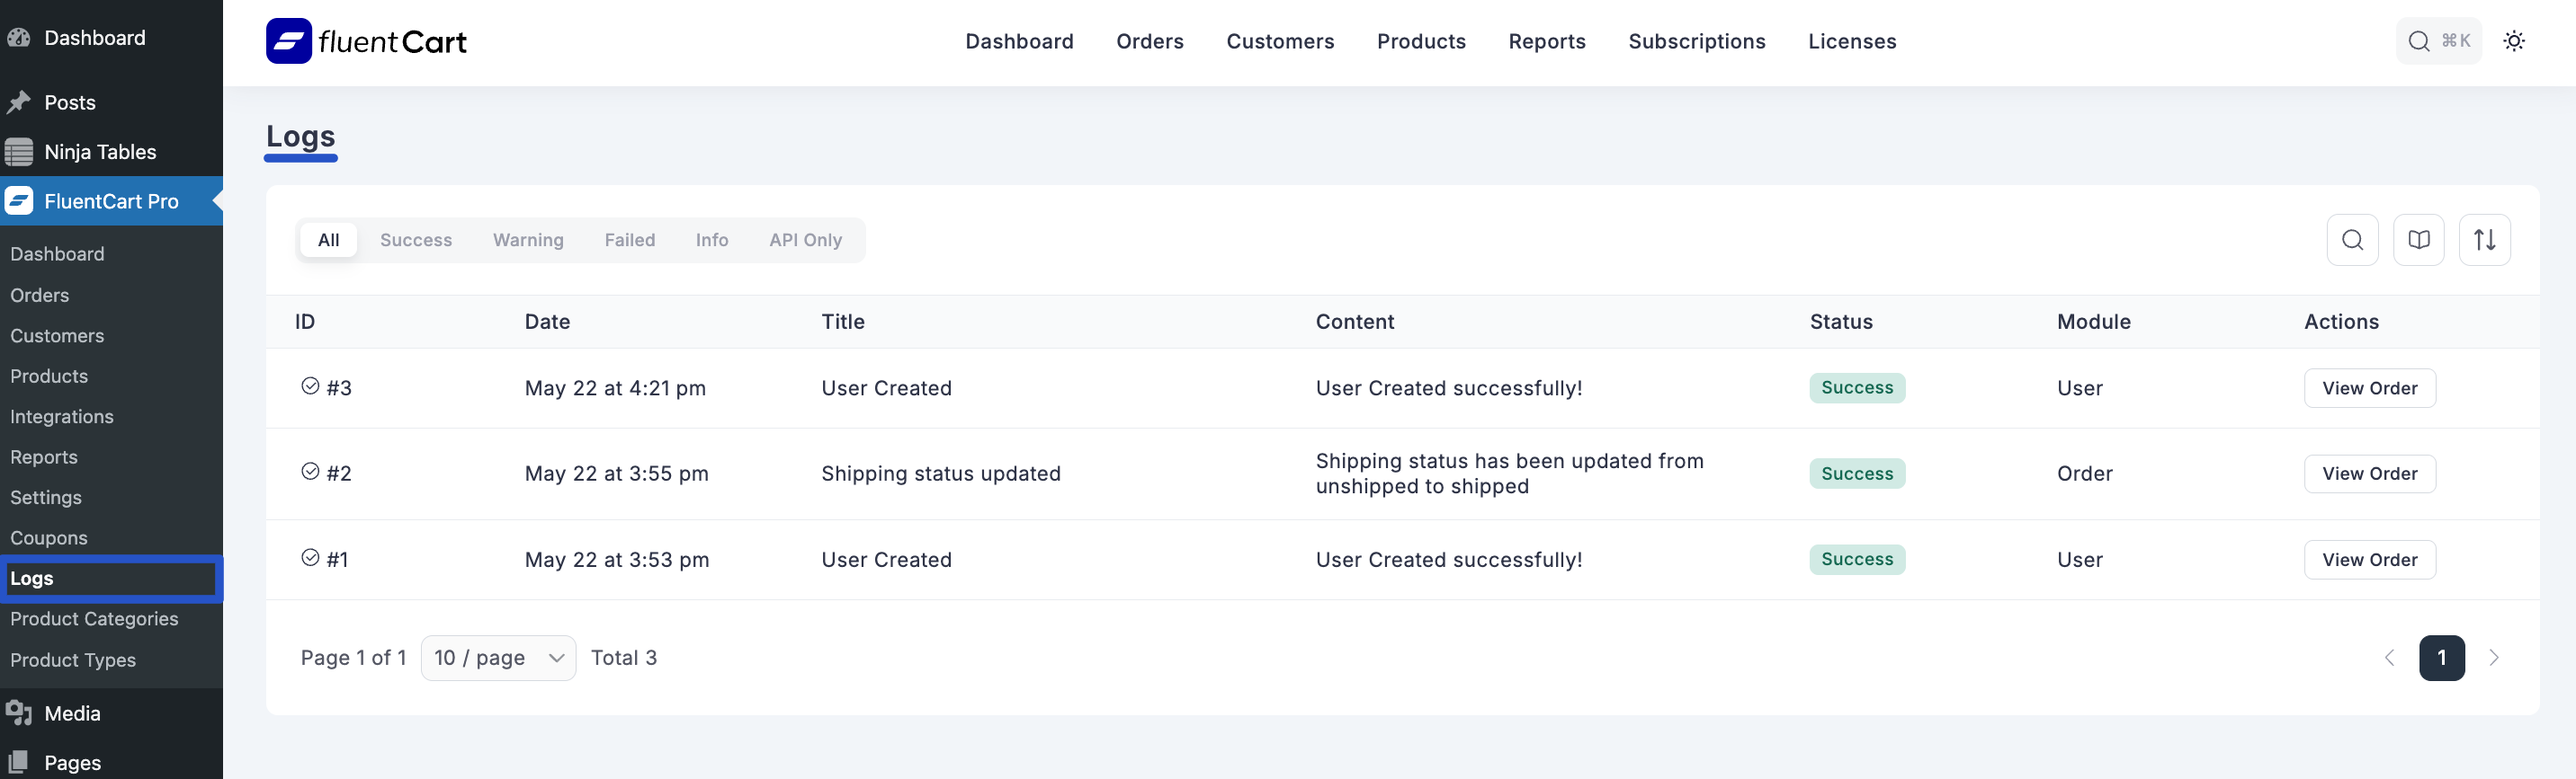
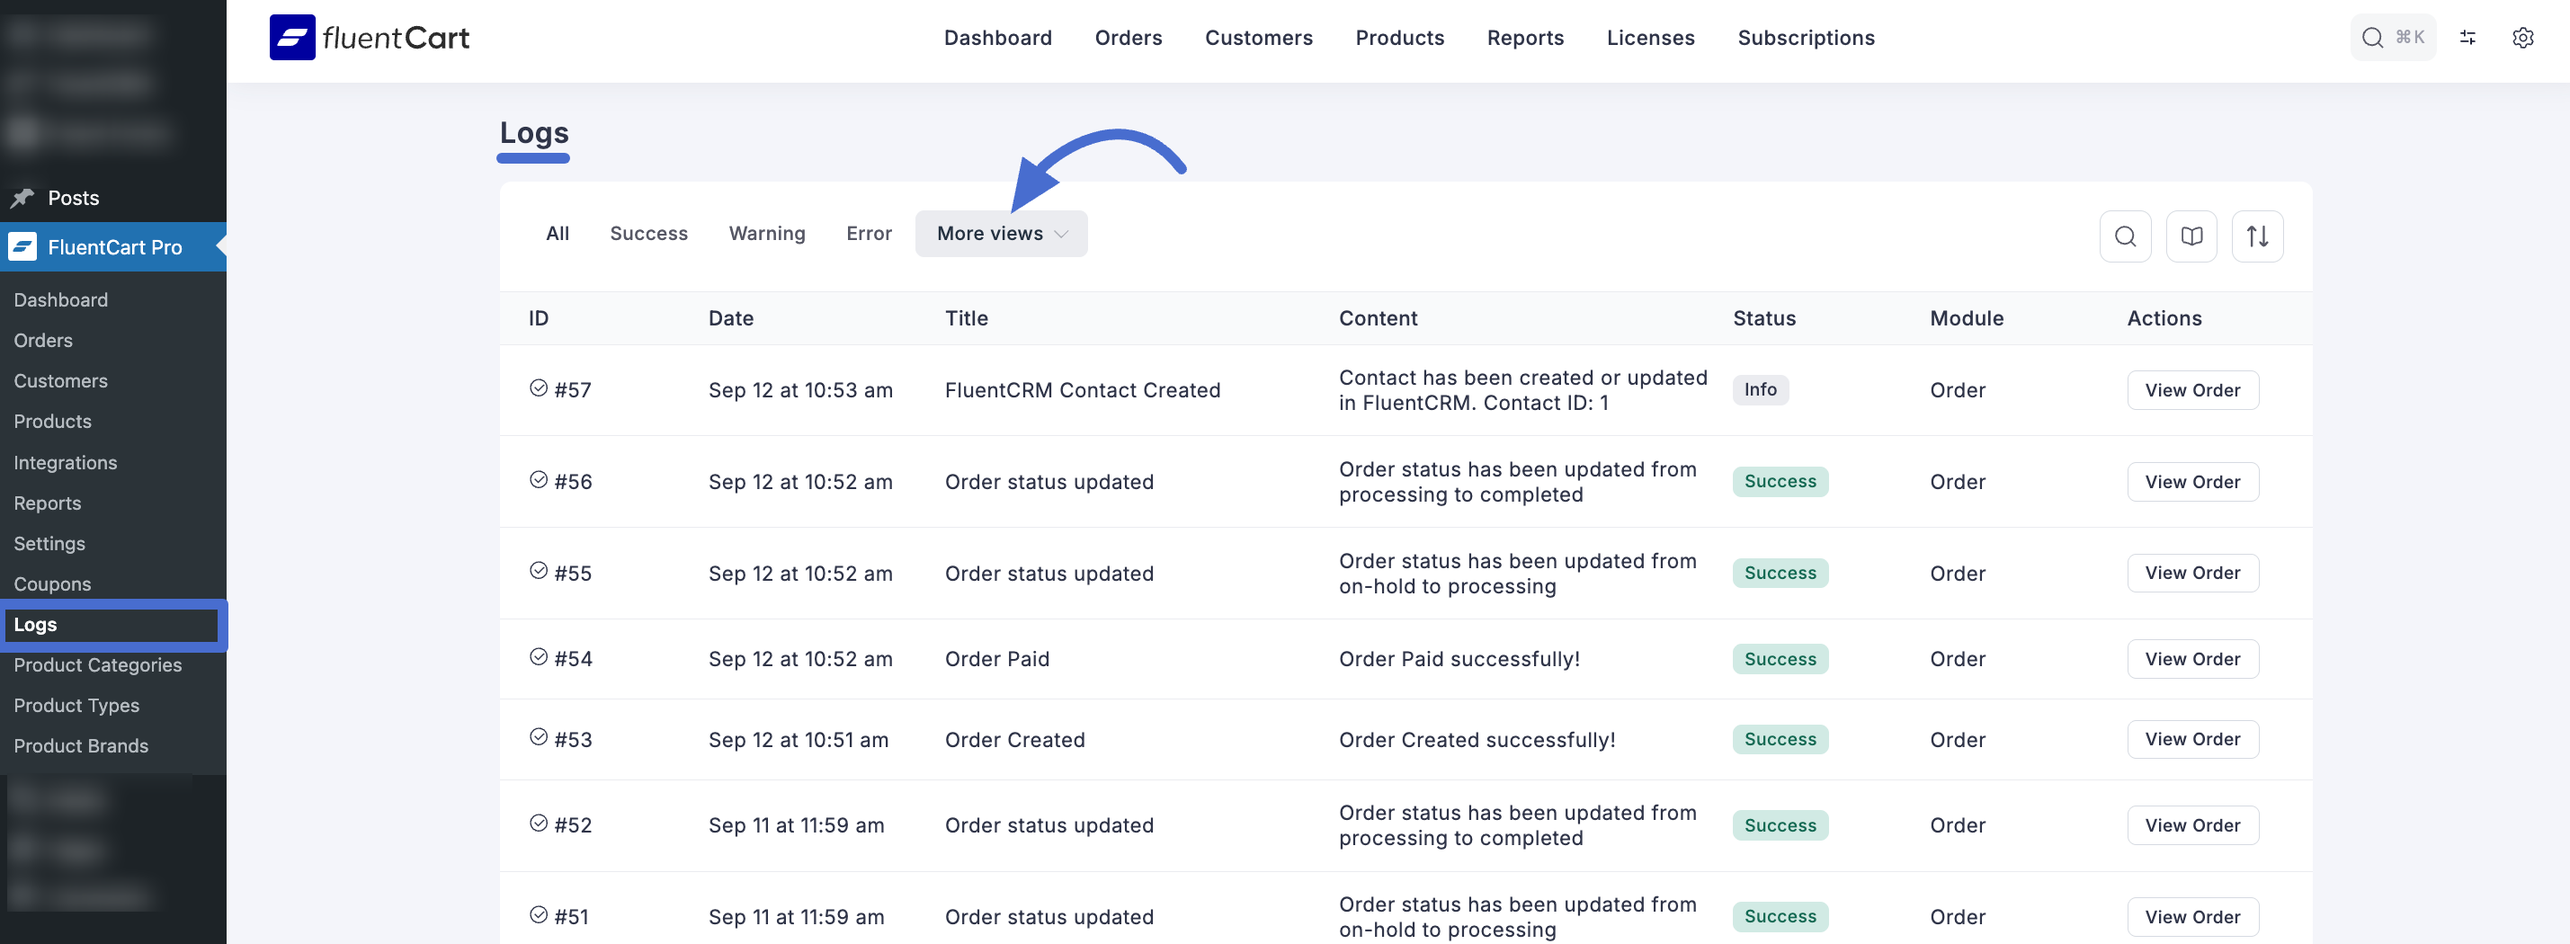
FluentCart Documentation rewrite and update
-Product Page Settings doc- change the accessing product page, add enable zoom feature description, doc image change.
-Cart & Checkout-In the docs Configuration Options, delete the cart icon in the menu bar description, and also change the images
-Global Integration doc- Add a screenshot in the details under the global integration dashboard
-Understanding Logs doc- Add a new description for More Views feature and also change the image of this doc

diff --git a/guide/troubleshooting-support/understanding-logs.md b/guide/troubleshooting-support/understanding-logs.md
@@ -1,6 +1,6 @@
  # Understanding Logs
 
-FluentCart's **Logs** screen provides a comprehensive chronological record of all significant events and actions that occur within your store. This audit trail is an essential tool for diagnosing issues, tracking changes, and monitoring your store's background operations.
+Think of the **Logs** screen as the diary for your store. It keeps a detailed record of every important event and action that happens, like when an order is paid or a setting is updated. This is an essential tool for keeping an eye on your store's operations and for figuring out what happened if something ever goes wrong.
 
 ## Accessing the Logs
 
@@ -23,19 +23,28 @@ The Logs list table presents key information for each event entry:
 
 ## Filtering Logs
 
-You can easily filter log entries by their status or type. This helps you find specific events quickly and keeps your store management more organized.
+If you are looking for a specific event, you can easily filter the log entries to narrow down your search.
 
-* **Log Type Filters:** Tabs at the top of the Logs screen allow you to filter entries by:
-    * **All:** Displays all log entries.
-    * **Success:** Shows only successfully completed actions.
-    * **Warning:** Displays entries indicating a warning or minor issue.
-    * **Failed:** Filters to show only actions that resulted in a failure.
-    * **Info:** Shows informational messages.
-    * **API Only:** Displays logs specifically related to API interactions.
+### Filtering by Status Tabs
+
+At the top of the logs screen, you will find several tabs to filter by the most common statuses:
+
+* **All:** Displays every log entry.
+* **Success:** Shows only successfully completed actions.
+* **Warning:** Filters for entries that indicate a minor issue.
+* **Error:** Shows only entries that are reporting an error.
+
+### Using 'More Views'
+
+For more specific filters, click the **More views** dropdown menu. Here you will find these options:
+
+* **Failed:** Shows only actions that resulted in a failure.
+* **Info:** Displays informational messages that aren't errors or successes.
+* **API Only:** Narrows the list to only show events related to API interactions.
 
 ## Using Logs for Troubleshooting
 
 * **Diagnosing Errors:** If you encounter unexpected behavior or errors in your store, checking the "Failed" or "Warning" log types can help identify the root cause.
-* **Auditing Changes:** TThe "Success" logs keep a record of all successful actions. This is helpful for audits or seeing who did what and when.
+* **Auditing Changes:** The "Success" logs keep a record of all successful actions. This is helpful for audits or seeing who did what and when.
 * **Tracking Workflows:** By reviewing the sequence of events in the log, you can understand how certain processes (like order fulfillment or refunds) unfolded.
 

diff --git a/guide/settings-configuration/product-page.md b/guide/settings-configuration/product-page.md
@@ -2,10 +2,11 @@
 
 The **Single Product & Order Setup** screen in FluentCart allows you to fine-tune how individual product pages are displayed on your storefront and configure certain general settings related to order management.
 
-## Accessing Single Product & Order Setup
+## Accessing the Product Page Settings
 
-1.  From your WordPress dashboard, navigate to **FluentCart Pro > Settings** in the left sidebar.
-2.  Click on the **"Single Product & Order Setup"** tab.
+1. From your WordPress dashboard, navigate to **FluentCart Pro** > **Settings** in the left sidebar.
+2. Click on the **Store Settings** tab. 
+3. Finally, select the **Product Page** section to see all available options.
 
 ## Configuration Options
 
@@ -18,7 +19,11 @@ These settings control how additional information is presented on your individua
 
     ![Screenshot of Single Product & Order Setup Tab](/images/settings-configuration/product-page-settings/single-product-order-setup.png)
 
-### 2. Variation Display
+### 2. Image Zooming
+
+* **Enable Zoom:** This feature lets customers get a closer look at your product images. When you check this **Enable Zoom** box, customers can hover their mouse over a product picture to see a magnified view. This is perfect for products with fine details, like clothing or electronics.
+
+### 3. Variation Display
 
 These settings define how your product variations (e.g., different sizes, colors, or license tiers) are presented to customers. The goal is to make the selection process as clear and intuitive as possible.
 
@@ -36,5 +41,5 @@ A "slug" is the user-friendly and URL-valid part of a web address that identifie
 
 ## Saving Your Settings
 
-After making any changes to your Single Product & Order Setup, remember to click the **"Save Settings"** button at the bottom right of the screen to apply your configurations.
+After making any changes to your Single Product & Order Setup, remember to click the **"Save"** button at the bottom right of the screen to apply your configurations.
 

diff --git a/guide/settings-configuration/global-integrations.md b/guide/settings-configuration/global-integrations.md
@@ -26,11 +26,13 @@ This screen provides a comprehensive overview of all the integration feeds you h
     * **Edit (Pencil Icon):** Click this to open the configuration screen and make changes to the feed's settings, such as adding new triggers or modifying data mappings.
     * **Delete (Trash Can Icon):** Click this to permanently delete the integration feed. This action cannot be undone.
 
+    ![Screenshot of Checkout Actions Tab](/images/settings-configuration/checkout/global-integration.png)
+
 #### Adding a New Integration
 
 To create a new automation, you can add a new integration feed. This is the starting point for connecting your store to a new service.
 
 1.  From the Global Integrations dashboard, click the **Add Integration** button at the top right.
-2.  A dropdown menu will appear, listing all the available integrations you can configure (e.g., **FluentCRM Feed**). These are the services that FluentCart is ready to connect with.
+2.  A dropdown menu will appear, listing all the available integrations you can configure [FluentCRM](/guide/Integrations/fluentcrm-integration.md). These are the services that FluentCart is ready to connect with.
 3.  Select the integration you wish to add from the list.
 4.  You will be taken to the dedicated configuration screen for that specific integration. Here, you will set up the specific rules for the automation, such as defining the triggers, mapping data fields, and configuring any service-specific options.

diff --git a/guide/settings-configuration/cart-checkout-settings.md b/guide/settings-configuration/cart-checkout-settings.md
@@ -17,8 +17,6 @@ This screen is divided into several sections to give you control over the entire
 
 These settings control where and how the cart icon appears on your website, ensuring it is always accessible to your customers.
 
-* **Cart Icon in Menu Bar:** When enabled, this places a cart icon in your website's main navigation menu. This is a standard and highly visible location that customers are accustomed to, making it easy to find.
-
 * **Cart Icon in Body:** Enable this to display a floating cart icon that remains visible on the side of the screen as the user scrolls. This acts as a persistent reminder of their cart's contents and provides a constant, one-click path to checkout.
 
 **User Account & Checkout Flow**
